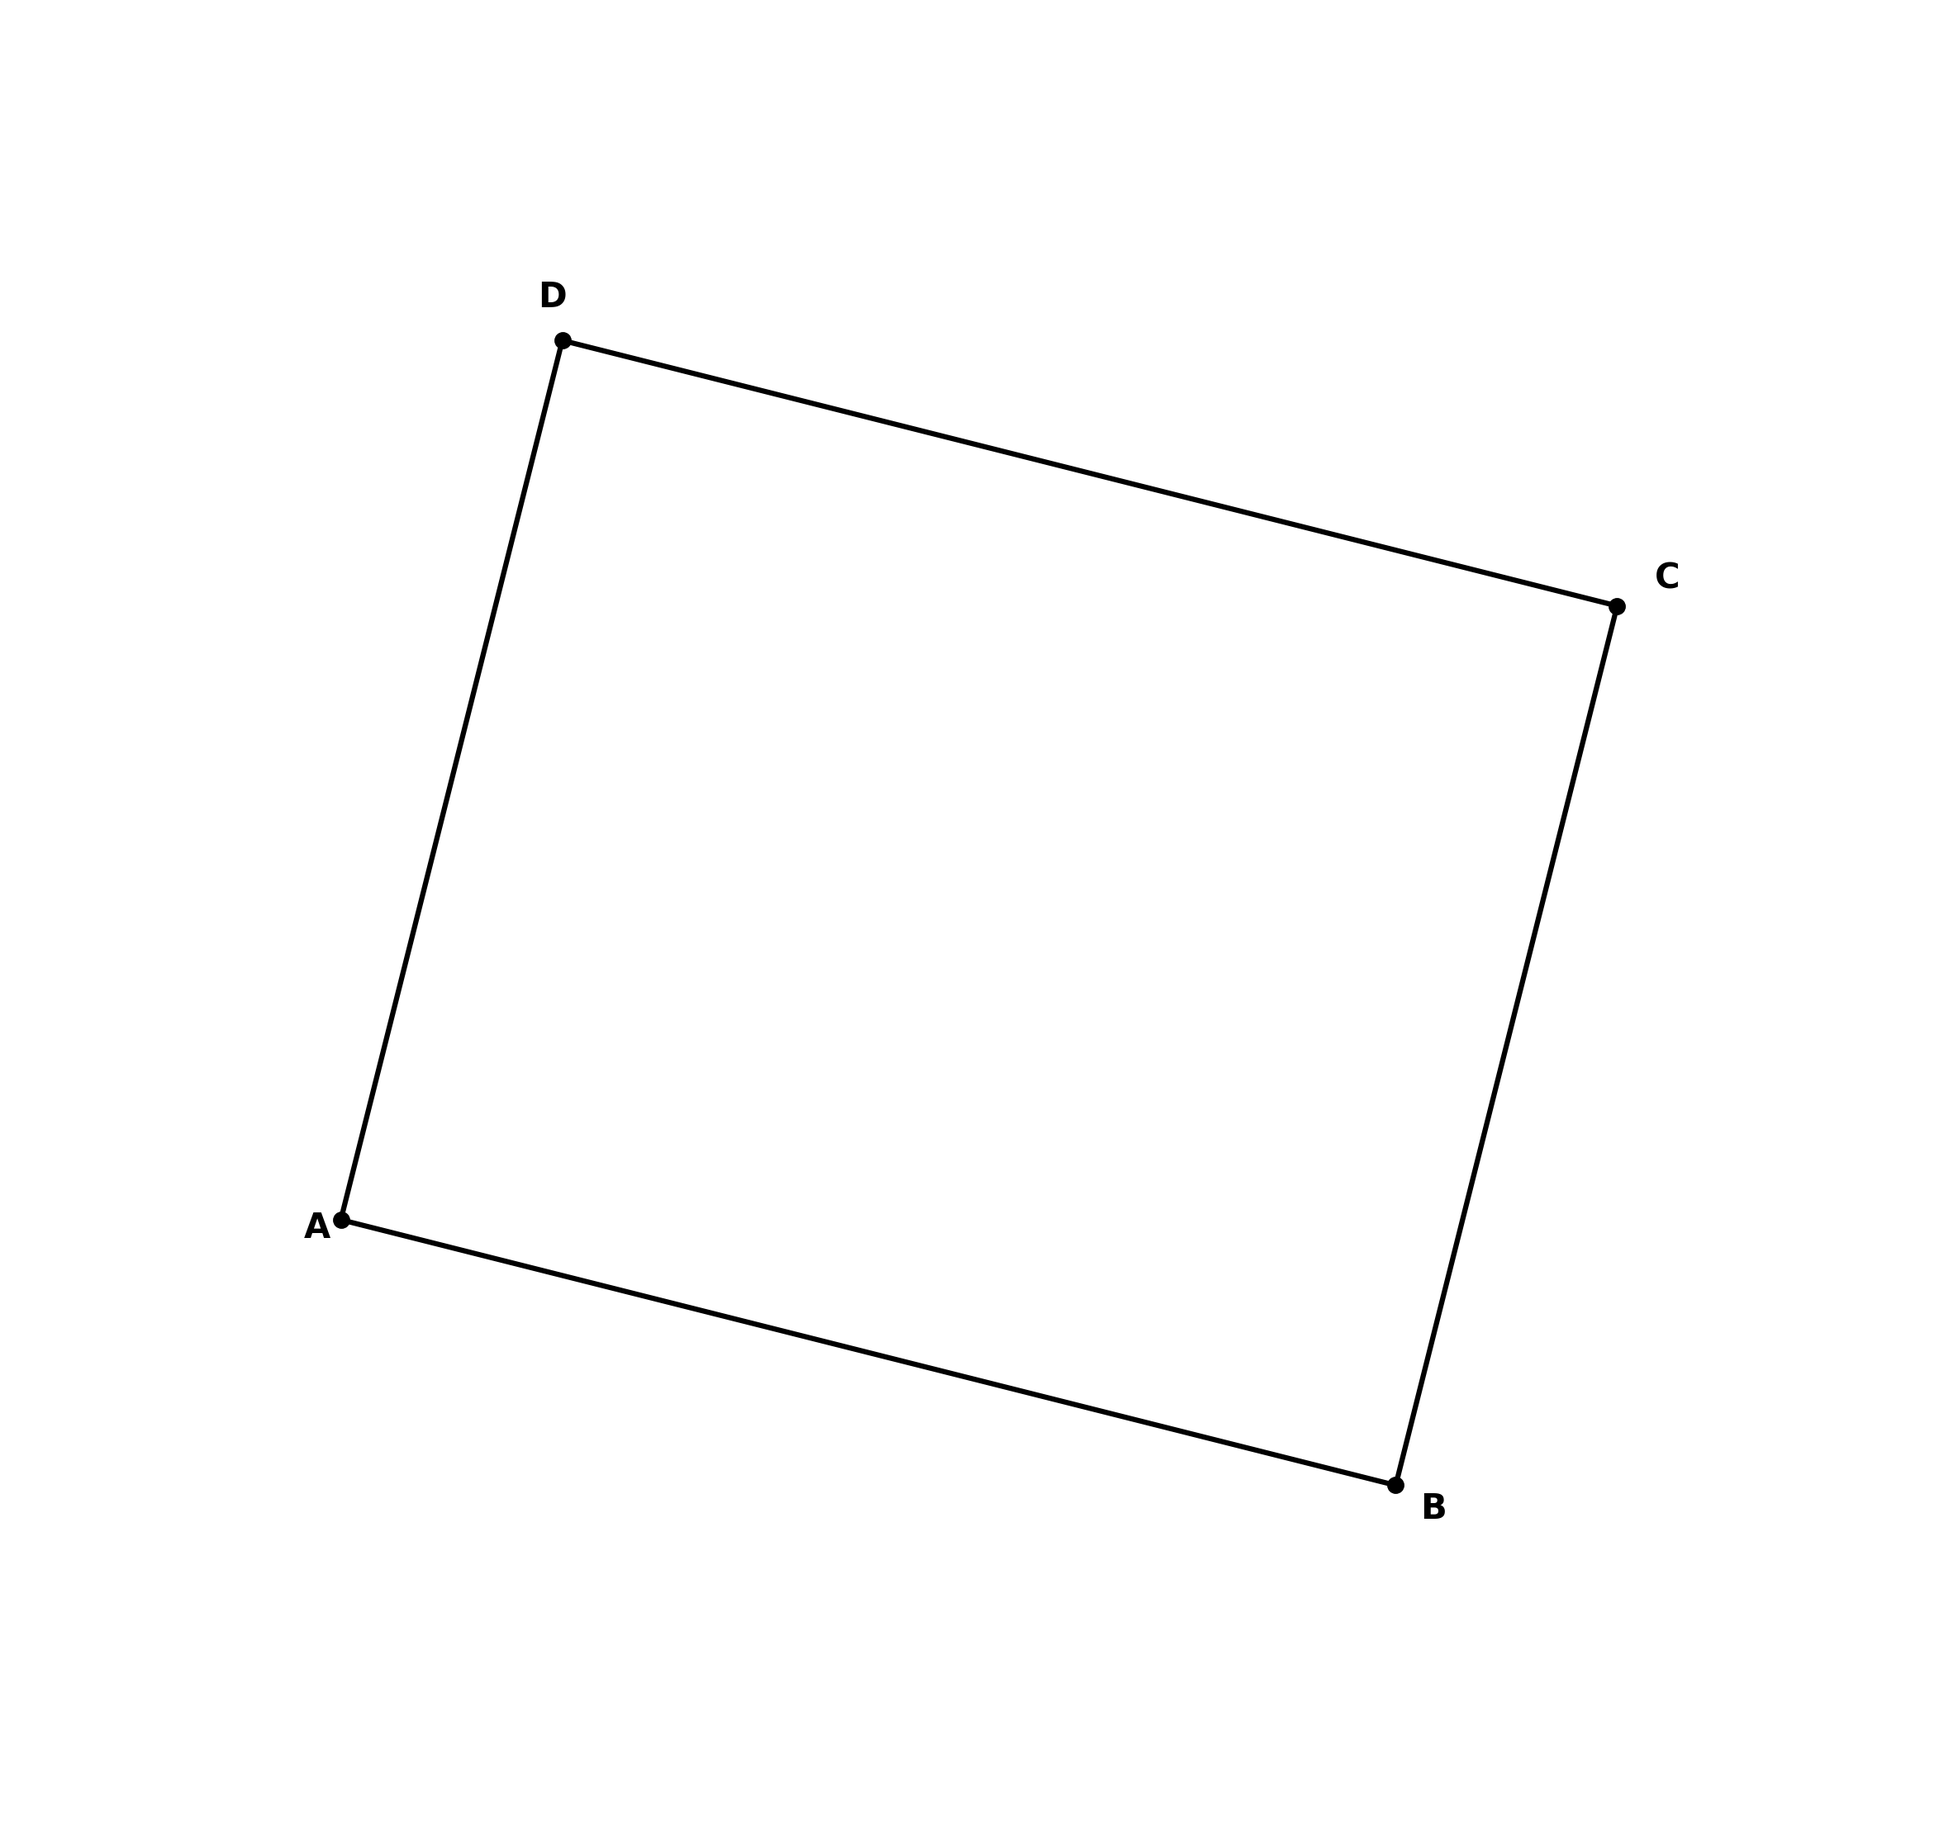
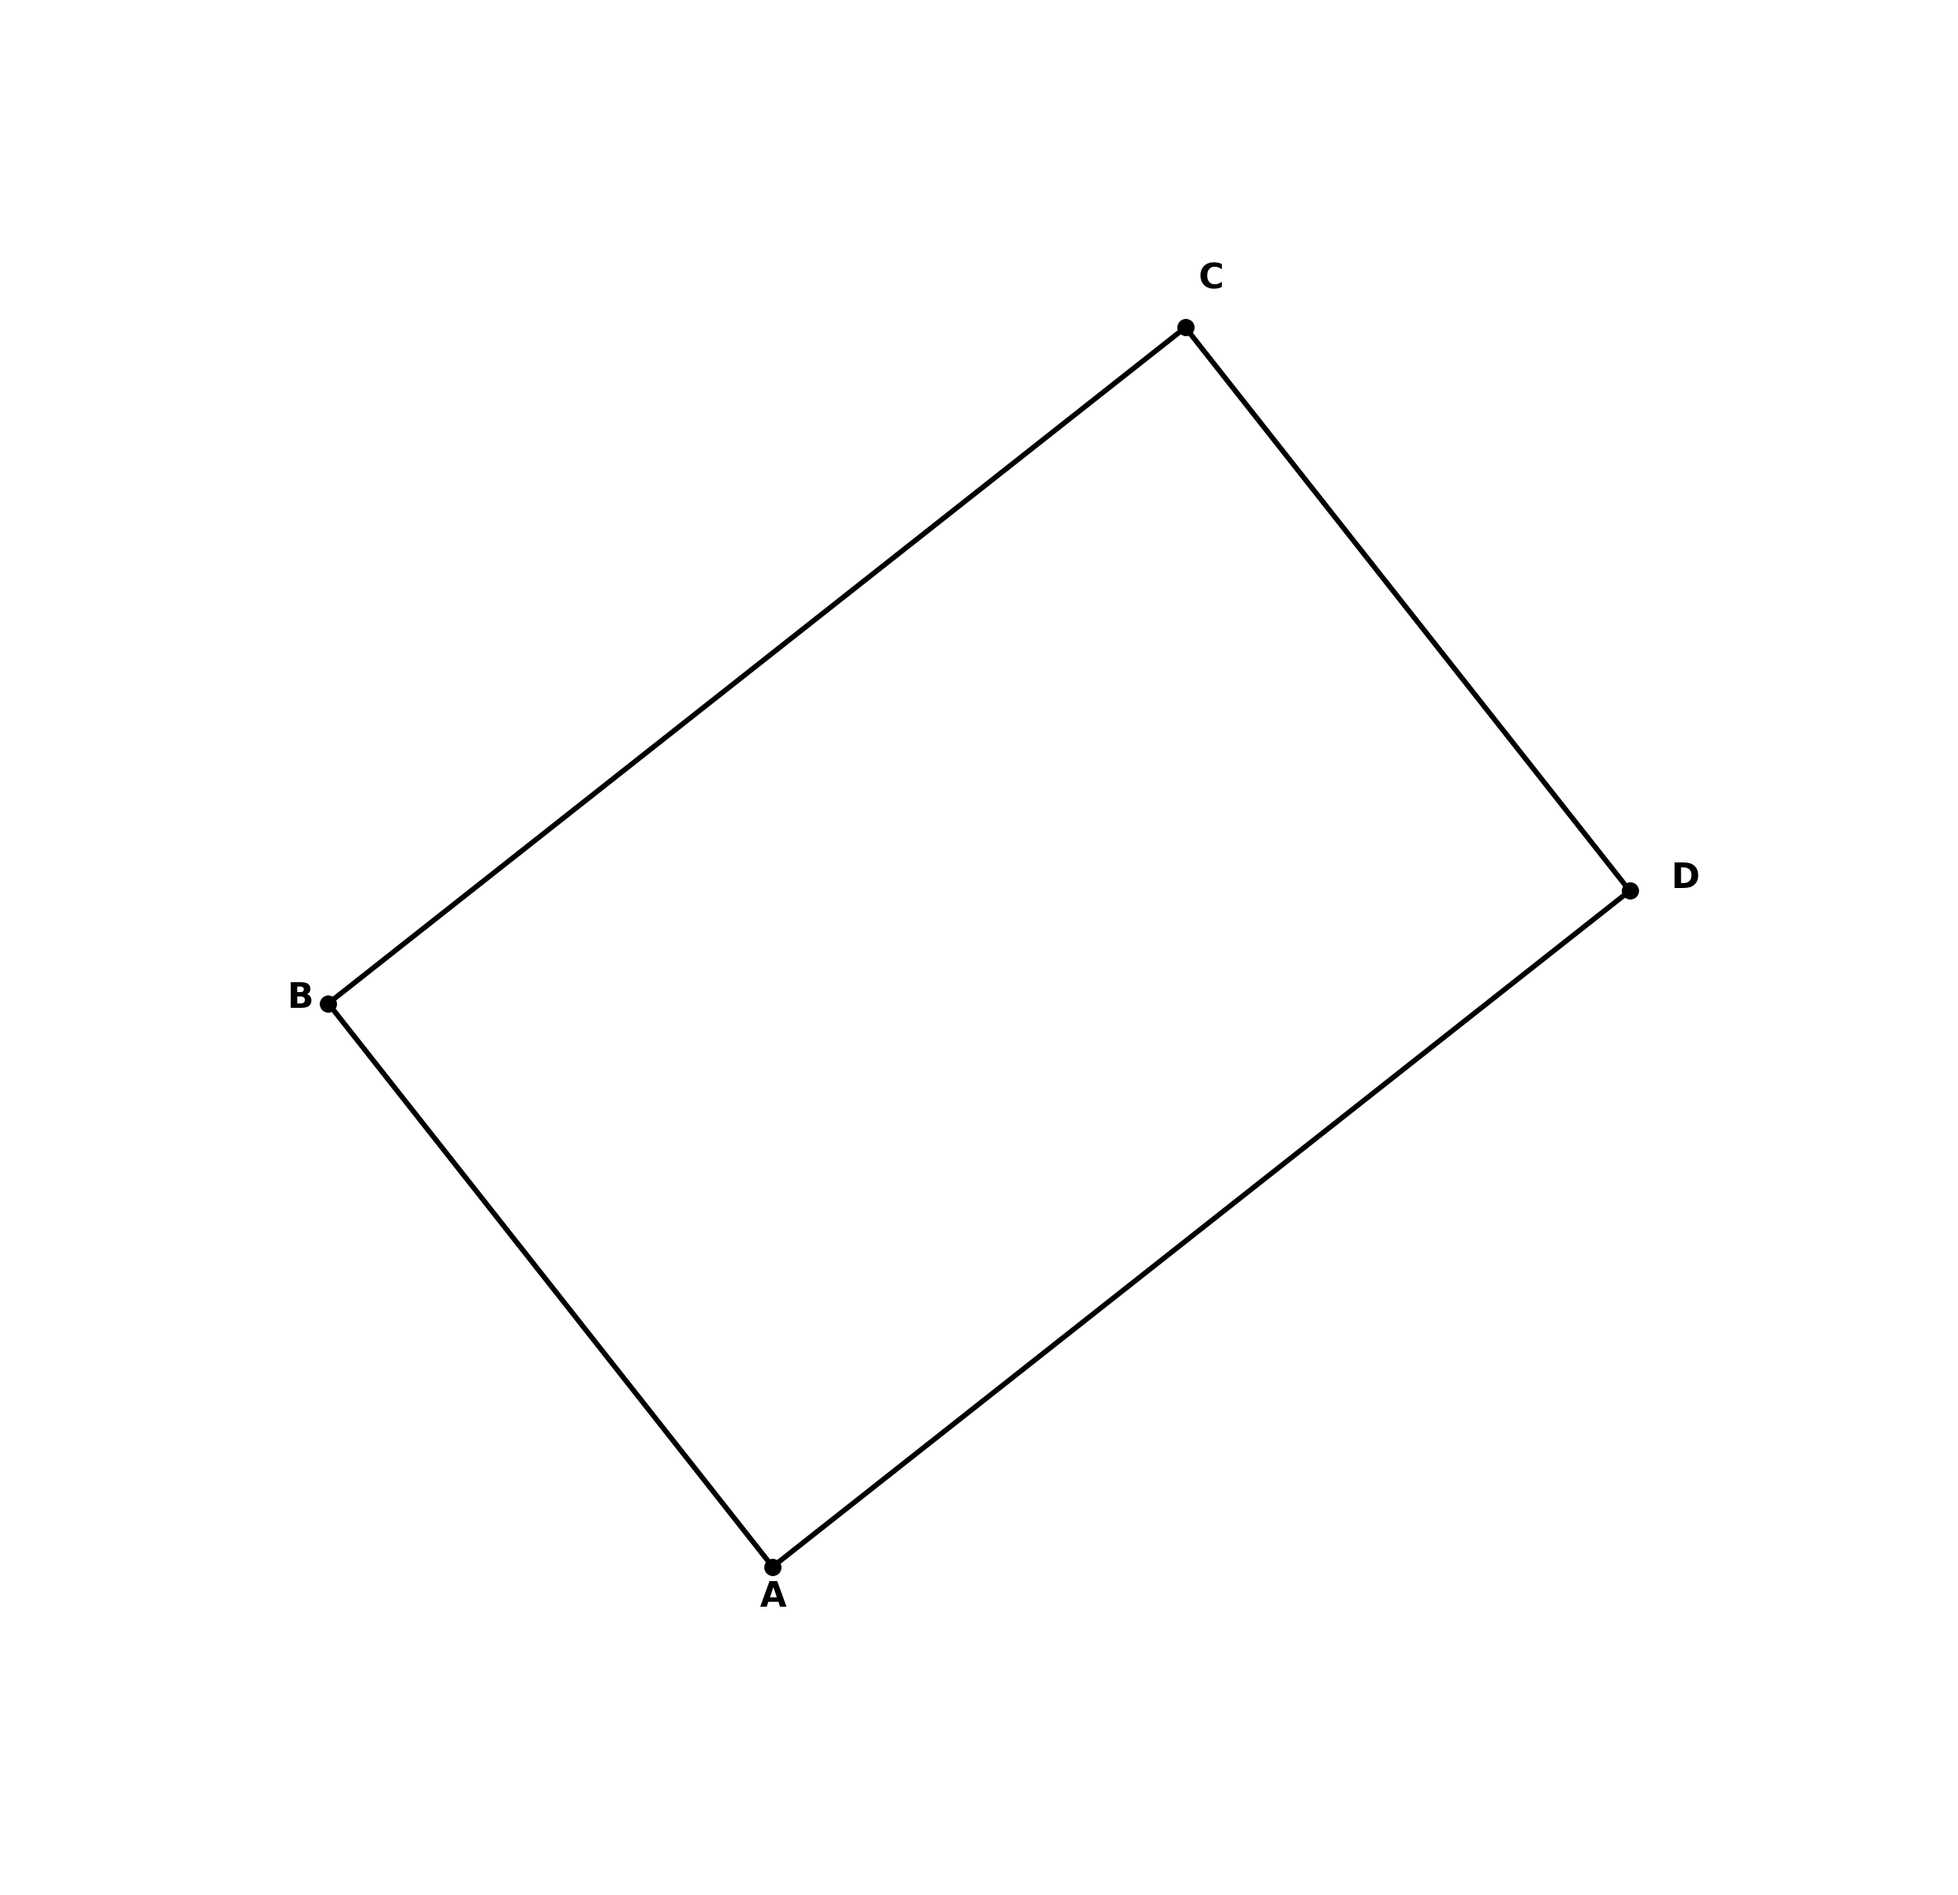
update rectangle

diff --git a/geo/src/optimizer.py b/geo/src/optimizer.py
@@ -250,6 +250,82 @@ class Optimizer:
                      weight=1.0)
         return [point_1, point_2, point_3, point_4]
     
+    def sample_rectangle(self, points, corner_point): # hình chữ nhật
+        assert len(points) == 4
+        
+        point_1 = self.sample_uniform(points[0])
+        point_2 = self.sample_uniform(points[1])
+        point_3 = self.sample_uniform(points[2])
+        point_4 = self.sample_uniform(points[3])
+        
+        pts = [point_1, point_2, point_3, point_4]
+        
+        # constraint 1: canh doi nhau bang nhau AB = CD, BC = DA
+        def opposite_sides_constraint():
+            d01 = self.dist(pts[0], pts[1]) # AB
+            d12 = self.dist(pts[1], pts[2]) # BC
+            d23 = self.dist(pts[2], pts[3]) # CD
+            d30 = self.dist(pts[3], pts[0]) # DA
+            return (d01 - d23)**2 + (d12 - d30)**2
+        
+        self.register_loss(
+            f"rect_opposite_sides_{points[0].val}_{points[1].val}_{points[2].val}_{points[3].val}",
+            opposite_sides_constraint,
+            weight=10.0
+        )
+        
+        # dieu chinh do dai ti le canh hinh chu nhat
+        def aspect_ratio_constraint():
+            d01 = self.dist(pts[0], pts[1])  # AB 
+            d12 = self.dist(pts[1], pts[2])  # BC 
+            
+            # Đảm bảo BC > AB * 1.5
+            ratio = d12 / (d01 + 1e-8)
+            return torch.relu(1.5 - ratio)  # penalty nếu ratio < 1.5
+        
+        self.register_loss(f"rect_aspect_ratio", aspect_ratio_constraint, weight=5.0)
+
+
+        # constraint 2: 4 goc vuong nhau
+        def angle_at_A():
+            v1x = pts[3].x - pts[0].x # DA
+            v1y = pts[3].y - pts[0].y 
+            v2x = pts[1].x - pts[0].x # AB
+            v2y = pts[1].y - pts[0].y
+            return v1x * v2x + v1y * v2y # tich vo huong = 0
+        
+        def angle_at_B():
+            v1x = pts[0].x - pts[1].x # BA
+            v1y = pts[0].y - pts[1].y
+            v2x = pts[2].x - pts[1].x # BC
+            v2y = pts[2].y - pts[1].y
+            return v1x * v2x + v1y * v2y 
+        
+        def angle_at_C():
+            v1x = pts[1].x - pts[2].x # CB
+            v1y = pts[1].y - pts[2].y
+            v2x = pts[3].x - pts[2].x # CD
+            v2y = pts[3].y - pts[2].y
+            return v1x * v2x + v1y * v2y
+        
+        def angle_at_D():
+            v1x = pts[2].x - pts[3].x # DC
+            v1y = pts[2].y - pts[3].y
+            v2x = pts[0].x - pts[3].x # DA
+            v2y = pts[0].y - pts[3].y
+            return v1x * v2x + v1y * v2y
+
+        self.register_loss(f"rect_angle_A", angle_at_A, weight=100.0)
+        self.register_loss(f"rect_angle_B", angle_at_B, weight=100.0)
+        self.register_loss(f"rect_angle_C", angle_at_C, weight=100.0)
+        self.register_loss(f"rect_angle_D", angle_at_D, weight=100.0) 
+        
+        self.register_ndg(f"rect_ndg_{points[0].val}_{points[1].val}_{points[2].val}",
+                     lambda a=pts[0], b=pts[1], c=pts[2]: self.collinear(a, b, c),
+                     weight=1.0)
+        
+        return [point_1, point_2, point_3, point_4]
+    
     def on_line(self, p: TorchPoint, line: LineNF):
         # line in normal form: n · p - r = 0
         return line.n.x * p.x + line.n.y * p.y - line.r
@@ -315,6 +391,9 @@ class Optimizer:
         elif param_type == "square":
             corner = args[0] if args else None
             self.sample_square(obj, corner)
+        elif param_type == "rectangle":
+            corner = args[0] if args else None
+            self.sample_rectangle(obj, corner)
             
         elif param_type == "on-seg":
             self.paramerter_on_seg(obj[0], args)
